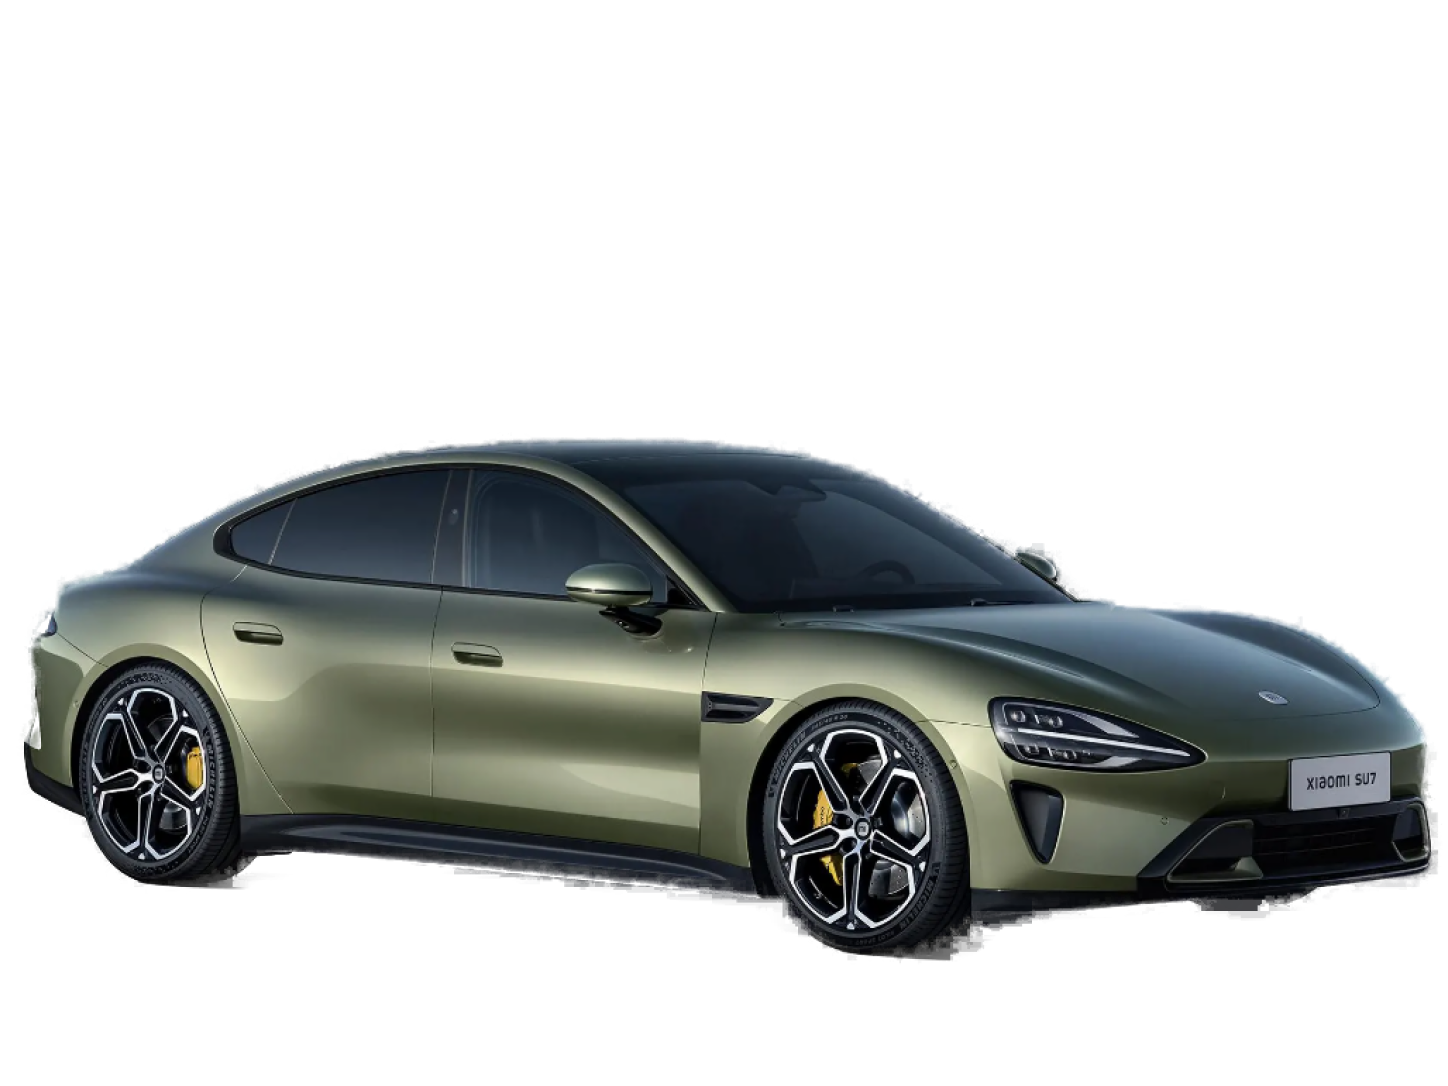
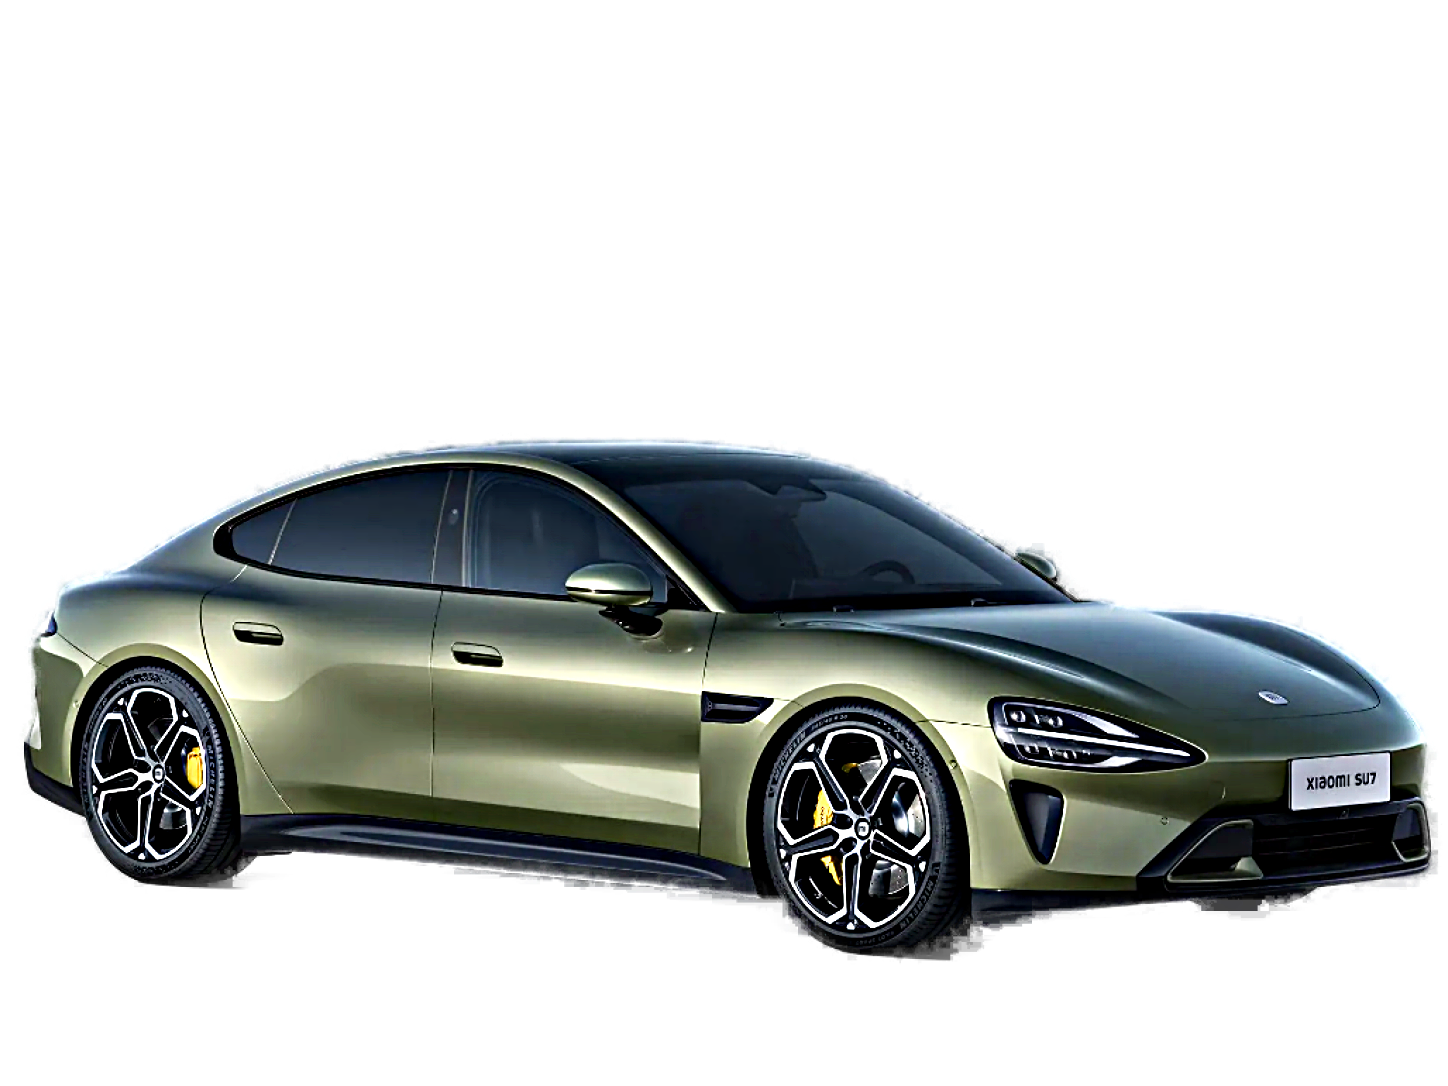
feat : updated car images in the showcase folder

diff --git a/scripts/enhance_showcase.py b/scripts/enhance_showcase.py
@@ -1,0 +1,126 @@
+"""Clean up and re-gloss the showcase cut-outs.
+
+Goal: make each background-removed vehicle PNG look newer / glossier while
+keeping the silhouette (the "structure") and the transparent background intact.
+Only the RGB channels are processed; alpha is carried through (optionally eroded
+a hair to kill a light cut-out fringe).
+
+Reproducible by design: each image is read from its pristine backup in
+scripts/_showcase_backup/ and written to public/showcase/, so re-running always
+starts from the original cut-out instead of compounding over an enhanced one.
+
+Per-image params let us tune individual cars:
+  shadow_lift  gamma lift of shadows/midtones (rescues near-black paint)
+  saturation   paint richness
+  gloss        strength of the specular highlight lift
+  clarity      large-radius local contrast (lower => fewer edge halos)
+  defringe     px of alpha erosion (removes a white cut-out outline)
+
+Run with: python scripts/enhance_showcase.py
+"""
+from pathlib import Path
+
+import numpy as np
+from PIL import Image, ImageEnhance, ImageFilter
+
+ROOT = Path(__file__).resolve().parent.parent
+SHOWCASE = ROOT / "public" / "showcase"
+BACKUP = ROOT / "scripts" / "_showcase_backup"
+
+DEFAULTS = dict(
+    denoise=0.35,
+    shadow_lift=0.0,
+    clarity=70,
+    clarity_radius=14,
+    contrast=1.09,
+    saturation=1.16,
+    gloss=0.28,
+    crisp=55,
+    defringe=0,
+    hi_lo=0.62,
+    hi_hi=0.97,
+)
+
+# name -> (source filename in backup, param overrides). Anything not overridden
+# uses DEFAULTS. The four un-flagged cars keep the default look.
+JOBS = {
+    # White bus: source is the de-papered copy. Soft clarity so the inpainted
+    # windshield isn't re-sharpened into a smudge; gentle gloss.
+    "Bus1.png": ("Bus1_clean.png", dict(clarity=30, clarity_radius=10, gloss=0.16, crisp=35, defringe=1)),
+    # Black sedan looked like a blob: lift shadows, ease off contrast + gloss.
+    "hongqi2.png": ("hongqi2.png", dict(shadow_lift=0.30, contrast=1.0, saturation=1.14, gloss=0.13, clarity=42)),
+    # Grey/gunmetal SUV: push paint hard so the metallic colour actually reads.
+    "leapmotor_c16_1.png": ("leapmotor_c16_1.png", dict(saturation=1.55, contrast=1.13, gloss=0.24, shadow_lift=0.06)),
+    # Green SUV: kill the white outline (erode alpha), drop clarity halos + gloss.
+    "leapmotor_c10_1.png": ("leapmotor_c10_1.png", dict(clarity=22, clarity_radius=10, gloss=0.10, contrast=1.06, saturation=1.2, crisp=28, defringe=2)),
+    "xiaomi_su7_2.png": ("xiaomi_su7_2.png", {}),
+    "leanmotors_b01_1.png": ("leanmotors_b01_1.png", {}),
+    "wuling_starlight _s_1.png": ("wuling_starlight _s_1.png", {}),
+    "wuling_starlight_sedan_1.png": ("wuling_starlight_sedan_1.png", {}),
+}
+
+
+def smoothstep(x, lo, hi):
+    t = np.clip((x - lo) / (hi - lo), 0.0, 1.0)
+    return t * t * (3.0 - 2.0 * t)
+
+
+def gloss_highlights(rgb, alpha, p):
+    arr = np.asarray(rgb, dtype=np.float32) / 255.0
+    lum = 0.299 * arr[..., 0] + 0.587 * arr[..., 1] + 0.114 * arr[..., 2]
+    mask = smoothstep(lum, p["hi_lo"], p["hi_hi"]) * (alpha / 255.0)
+    mask = mask[..., None] * p["gloss"]
+    out = 1.0 - (1.0 - arr) * (1.0 - mask)
+    return Image.fromarray(np.clip(out * 255.0, 0, 255).astype(np.uint8), "RGB")
+
+
+def enhance(src: Path, dst: Path, overrides: dict) -> None:
+    p = {**DEFAULTS, **overrides}
+    img = Image.open(src).convert("RGBA")
+    r, g, b, a = img.split()
+    alpha = np.asarray(a, dtype=np.float32)
+    rgb = Image.merge("RGB", (r, g, b))
+
+    # 1. denoise
+    rgb = Image.blend(rgb, rgb.filter(ImageFilter.GaussianBlur(1.1)), p["denoise"])
+
+    # 2. shadow lift (gamma < 1 brightens shadows/midtones)
+    if p["shadow_lift"] > 0:
+        arr = (np.asarray(rgb, np.float32) / 255.0) ** (1.0 / (1.0 + p["shadow_lift"]))
+        rgb = Image.fromarray(np.clip(arr * 255.0, 0, 255).astype(np.uint8), "RGB")
+
+    # 3. clarity / local contrast
+    rgb = rgb.filter(ImageFilter.UnsharpMask(radius=p["clarity_radius"], percent=p["clarity"], threshold=2))
+
+    # 4. richer paint
+    rgb = ImageEnhance.Contrast(rgb).enhance(p["contrast"])
+    rgb = ImageEnhance.Color(rgb).enhance(p["saturation"])
+
+    # 5. glossy specular lift (alpha-aware)
+    rgb = gloss_highlights(rgb, alpha, p)
+
+    # 6. final crisp-up
+    rgb = rgb.filter(ImageFilter.UnsharpMask(radius=2, percent=p["crisp"], threshold=1))
+
+    # 7. defringe: shrink the silhouette a hair to drop a light cut-out outline
+    if p["defringe"] > 0:
+        for _ in range(p["defringe"]):
+            a = a.filter(ImageFilter.MinFilter(3))
+
+    r2, g2, b2 = rgb.split()
+    Image.merge("RGBA", (r2, g2, b2, a)).save(dst)
+    print(f"  enhanced  showcase/{dst.name}")
+
+
+def main() -> None:
+    for out_name, (src_name, overrides) in JOBS.items():
+        src = BACKUP / src_name
+        if not src.exists():
+            print(f"  SKIP (no backup)  {src_name}")
+            continue
+        enhance(src, SHOWCASE / out_name, overrides)
+    print("done")
+
+
+if __name__ == "__main__":
+    main()

diff --git a/scripts/_bus_inpaint.py b/scripts/_bus_inpaint.py
@@ -1,0 +1,63 @@
+"""Remove the windshield QR/document papers from the bus cut-out so only the
+'Metro Electric' badge remains. Harmonic (diffusion) inpaint over the smooth
+glass reads naturally. Writes the cleaned cut-out back to the backup copy so the
+main enhance pass can gloss it afterwards.
+"""
+import numpy as np
+from PIL import Image
+from scipy import ndimage
+
+SRC = "scripts/_showcase_backup/Bus1.png"
+OUT = "scripts/_showcase_backup/Bus1_clean.png"
+
+img = Image.open(SRC).convert("RGBA")
+a = np.asarray(img).astype(np.float32)
+rgb = a[..., :3].copy()
+alpha = a[..., 3]
+h, w = rgb.shape[:2]
+
+lum = 0.299 * rgb[..., 0] + 0.587 * rgb[..., 1] + 0.114 * rgb[..., 2]
+mx = rgb.max(2); mn = rgb.min(2)
+sat = (mx - mn) / (mx + 1e-3)
+
+box = np.zeros((h, w), bool)
+box[90:162, 150:302] = True
+bright = (lum > 150) & (sat < 0.22) & box & (alpha > 200)
+
+# Solidify into full paper rectangles: close gaps, fill the QR's dark holes,
+# then dilate to swallow the paper edges and their thin shadows.
+mask = ndimage.binary_closing(bright, structure=np.ones((7, 7)))
+mask = ndimage.binary_fill_holes(mask)
+mask = ndimage.binary_dilation(mask, structure=np.ones((3, 3)), iterations=3)
+mask &= alpha > 200  # never invent colour outside the silhouette
+
+# Seed the masked area with the mean of its surrounding ring, then relax toward
+# a harmonic fill (each masked pixel -> average of 4 neighbours).
+ring = ndimage.binary_dilation(mask, iterations=4) & ~mask
+seed = rgb[ring].mean(0)
+out = rgb.copy()
+out[mask] = seed
+m = mask.copy()
+for _ in range(900):
+    nb = np.zeros_like(out)
+    nb[1:, :] += out[:-1, :]
+    nb[:-1, :] += out[1:, :]
+    nb[:, 1:] += out[:, :-1]
+    nb[:, :-1] += out[:, 1:]
+    nb /= 4.0
+    out[m] = nb[m]
+
+# Tiny blur only inside the fill to kill relaxation banding.
+filled = Image.fromarray(np.clip(out, 0, 255).astype(np.uint8))
+from PIL import ImageFilter
+blur = np.asarray(filled.filter(ImageFilter.GaussianBlur(1.2))).astype(np.float32)
+soft = ndimage.binary_erosion(mask, iterations=2)
+out[soft] = blur[soft]
+
+res = np.dstack([np.clip(out, 0, 255), alpha]).astype(np.uint8)
+Image.fromarray(res, "RGBA").save(OUT)
+# preview
+Image.fromarray(res[:, :, :3]).crop((140, 80, 310, 175)).resize((680, 380)).save(
+    "scripts/_bus_clean_preview.png"
+)
+print("saved", OUT)
